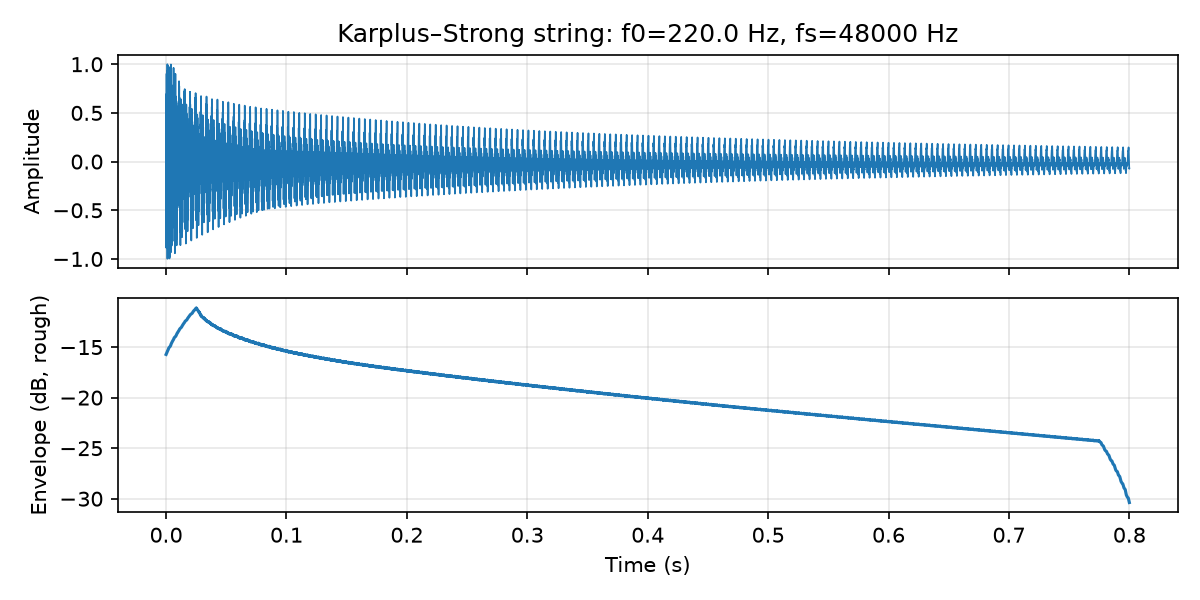
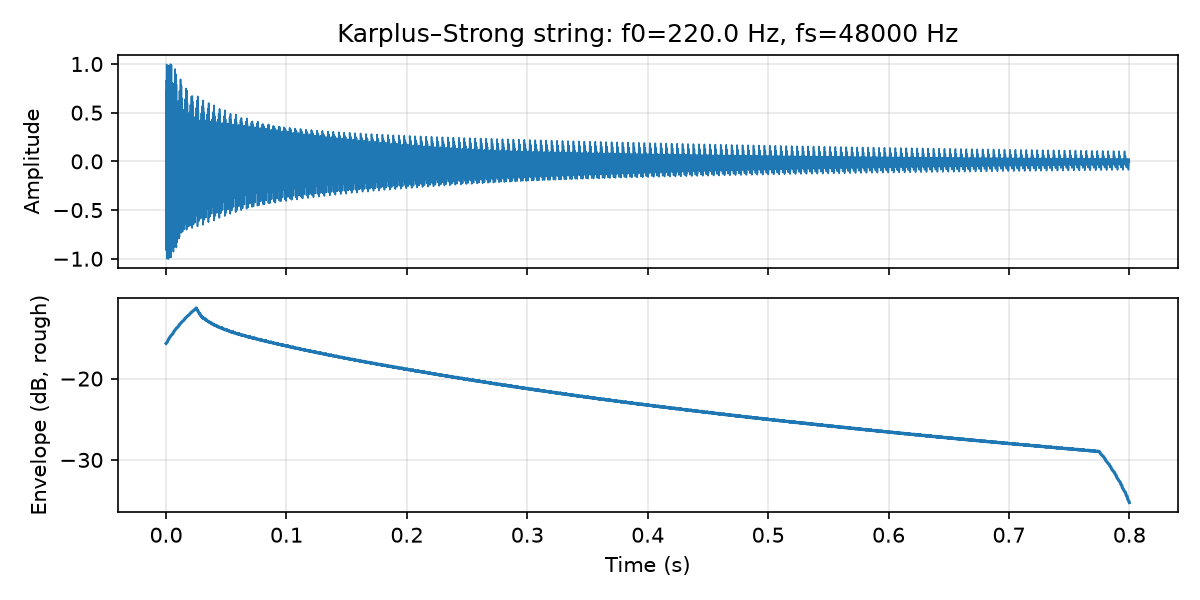
Pass 16: representation lens ch 07-17, solutions ch 07-09
Add representation lens tables to chapters 07-17. Extend appendix and
verified solutions to ch 07-09. Add leakage WAV demo, STFT framing
diagram and figure for ch 08. Update planning docs.

diff --git a/book/examples/stft_framing_diagram.py b/book/examples/stft_framing_diagram.py
@@ -1,0 +1,40 @@
+#!/usr/bin/env python3
+"""STFT framing block diagram (Chapter 08).
+
+Run from book/: python examples/stft_framing_diagram.py
+"""
+
+from pathlib import Path
+
+import matplotlib.pyplot as plt
+from matplotlib.patches import FancyBboxPatch, FancyArrowPatch
+
+FIG = Path(__file__).resolve().parent.parent / "figures"
+FIG.mkdir(parents=True, exist_ok=True)
+
+fig, ax = plt.subplots(figsize=(10, 3))
+ax.set_xlim(0, 10)
+ax.set_ylim(0, 3)
+ax.axis("off")
+
+boxes = [
+    (0.3, 1.2, 1.4, 0.9, "x[n]\ninput"),
+    (2.2, 1.2, 1.6, 0.9, "× w[n]\nwindow"),
+    (4.3, 1.2, 1.6, 0.9, "FFT\nper frame"),
+    (6.4, 1.2, 1.8, 0.9, "X_m[k]\nSTFT"),
+    (8.6, 1.2, 1.2, 0.9, "|X_m[k]|\noptional"),
+]
+for x, y, w, h, label in boxes:
+    ax.add_patch(FancyBboxPatch((x, y), w, h, boxstyle="round,pad=0.05", fc="#e8f0fe", ec="#333"))
+    ax.text(x + w / 2, y + h / 2, label, ha="center", va="center", fontsize=9)
+
+for x0, x1 in [(1.7, 2.2), (3.8, 4.3), (5.9, 6.4), (8.2, 8.6)]:
+    ax.add_patch(FancyArrowPatch((x0, 1.65), (x1, 1.65), arrowstyle="->", mutation_scale=12))
+
+ax.text(5, 0.4, "hop R samples between frames; overlap = (M−R)/M", ha="center", fontsize=9)
+ax.set_title("STFT analysis chain (representation: time → time–frequency)")
+
+out = FIG / "stft_framing.png"
+fig.tight_layout()
+fig.savefig(out, dpi=150)
+print(f"Wrote {out}")

diff --git a/book/solutions/ch09_verify.py b/book/solutions/ch09_verify.py
@@ -1,0 +1,27 @@
+#!/usr/bin/env python3
+"""Verified numeric answers for Chapter 09 exercises."""
+
+from __future__ import annotations
+
+import sys
+from pathlib import Path
+
+import numpy as np
+
+BOOK = Path(__file__).resolve().parent.parent
+sys.path.insert(0, str(BOOK))
+
+
+def main() -> int:
+    x = np.array([1.0, 2.0, 1.0])
+    h = np.array([1.0, 1.0])
+    y = np.convolve(x, h)
+    assert np.allclose(y, [1.0, 3.0, 3.0, 1.0])
+    delta = np.array([1.0])
+    assert np.allclose(np.convolve(delta, h), h)
+    print("Chapter 09 solutions: verified")
+    return 0
+
+
+if __name__ == "__main__":
+    raise SystemExit(main())

diff --git a/book/solutions/ch07_verify.py b/book/solutions/ch07_verify.py
@@ -1,0 +1,26 @@
+#!/usr/bin/env python3
+"""Verified numeric answers for Chapter 07 exercises."""
+
+from __future__ import annotations
+
+import sys
+from pathlib import Path
+
+import numpy as np
+
+BOOK = Path(__file__).resolve().parent.parent
+sys.path.insert(0, str(BOOK))
+
+from audio_toolkit.spectral import coherent_gain  # noqa: E402
+
+
+def main() -> int:
+    n_fft = 1024
+    cg = coherent_gain("hann", n_fft)
+    assert 0.49 < cg < 0.51, cg
+    print("Chapter 07 solutions: verified")
+    return 0
+
+
+if __name__ == "__main__":
+    raise SystemExit(main())

diff --git a/book/solutions/ch08_verify.py b/book/solutions/ch08_verify.py
@@ -1,0 +1,24 @@
+#!/usr/bin/env python3
+"""Verified numeric answers for Chapter 08 exercises."""
+
+from __future__ import annotations
+
+import sys
+from pathlib import Path
+
+BOOK = Path(__file__).resolve().parent.parent
+sys.path.insert(0, str(BOOK))
+
+
+def main() -> int:
+    m, r, fs = 2048, 512, 48_000
+    overlap = (m - r) / m
+    assert abs(overlap - 0.75) < 1e-9
+    frames_per_sec = fs / r
+    assert abs(frames_per_sec - 93.75) < 1e-9
+    print("Chapter 08 solutions: verified")
+    return 0
+
+
+if __name__ == "__main__":
+    raise SystemExit(main())

diff --git a/book/examples/export_audio_demos.py b/book/examples/export_audio_demos.py
@@ -57,6 +57,15 @@ def demo_naive_saw_aliasing() -> None:
     print("saw: naive_saw_2200hz.wav — listen for harsh high-frequency buzz")
 
 
+def demo_leakage_beating() -> None:
+    """Two close tones — hear roughness; spectral analysis shows leakage (Ch 07)."""
+    f1, f2 = 440.0, 444.0
+    n = np.arange(int(FS * DUR))
+    x = 0.4 * (np.sin(2 * np.pi * f1 * n / FS) + np.sin(2 * np.pi * f2 * n / FS))
+    write_wav(OUT / "leakage_two_tone_440_444.wav", x.astype(np.float32), int(FS))
+    print("leakage: leakage_two_tone_440_444.wav — 4 Hz beating; analyze with rect vs Hann window")
+
+
 def demo_comb_filter() -> None:
     """Impulse through feedback comb — metallic resonance."""
     delay_samples = 60
@@ -82,6 +91,7 @@ def main() -> None:
     demo_aliasing()
     demo_phase_click()
     demo_naive_saw_aliasing()
+    demo_leakage_beating()
     demo_comb_filter()
     print(f"All demos written to {OUT}/")
 

diff --git a/book/solutions/run_verifications.py b/book/solutions/run_verifications.py
@@ -5,7 +5,10 @@ import subprocess
 import sys
 from pathlib import Path
 
-SOLUTIONS = ["ch01_verify.py", "ch02_verify.py", "ch03_verify.py", "ch04_verify.py", "ch05_verify.py", "ch06_verify.py"]
+SOLUTIONS = [
+    "ch01_verify.py", "ch02_verify.py", "ch03_verify.py", "ch04_verify.py",
+    "ch05_verify.py", "ch06_verify.py", "ch07_verify.py", "ch08_verify.py", "ch09_verify.py",
+]
 book = Path(__file__).resolve().parent.parent
 failures = []
 for name in SOLUTIONS:

diff --git a/book/tests/run_examples.py b/book/tests/run_examples.py
@@ -21,6 +21,7 @@ EXAMPLES = [
     "wavetable_demo.py",
     "export_audio_demos.py",
     "spectrogram_frontend_demo.py",
+    "stft_framing_diagram.py",
 ]
 
 failures = []

diff --git a/book/chapters/23-appendix-exercise-solutions.md b/book/chapters/23-appendix-exercise-solutions.md
@@ -1,6 +1,6 @@
 # Appendix: Selected Exercise Solutions {#ch-23-exercise-solutions}
 
-This appendix provides worked solutions for exercises in chapters **01–06**. Try each exercise yourself first; use these solutions to check arithmetic, conventions, and reasoning.
+This appendix provides worked solutions for exercises in chapters **01–09**. Try each exercise yourself first; use these solutions to check arithmetic, conventions, and reasoning.
 
 ---
 
@@ -251,4 +251,66 @@ Manual bin $k$: $X[k]=\sum_n x[n] e^{-j2\pi kn/N}$ should match `np.fft.fft(x)[k
 
 ---
 
-*Numeric answers for ch 01–06 verified by `solutions/ch01_verify.py` … `ch06_verify.py` (`python solutions/run_verifications.py`).*
+---
+
+## [Chapter 7](#ch-07-windowing) — Windowing, Leakage, and Resolution
+
+### Exercise 7.1
+
+Hann coherent gain ≈ mean of window = **0.5** for length 1024 (`np.mean(np.hanning(1024))`).
+
+### Exercise 7.2
+
+Using $N-1$ in the cosine denominator keeps the window **symmetric** about its center for finite $N$.
+
+### Exercise 7.3
+
+Blackman main lobe wider than Hann; rectangular narrowest main lobe but highest sidelobes — measure −3 dB width in your plot.
+
+### Exercise 7.4
+
+Drum transients are **short**; long $N$ smears attack time in time–frequency view even if $\Delta f$ is finer.
+
+---
+
+## [Chapter 8](#ch-08-stft) — STFT, Spectrograms, and Time–Frequency Analysis
+
+### Exercise 8.1
+
+$M=2048$, $R=512$ at 48 kHz: overlap $= (M-R)/M = \mathbf{75\%}$. Frames per second $= f_s/R = 48000/512 = \mathbf{93.75}$.
+
+### Exercise 8.2
+
+Two tones at different onsets appear as **separate ridges** in time on a spectrogram; overlap in frequency if both sound together.
+
+### Exercise 8.3
+
+$M=256$: better time resolution, worse frequency resolution; $M=4096$: opposite — classic time–frequency tradeoff.
+
+### Exercise 8.4
+
+Formants need **moderate** bandwidth — not as wide as a drum window, not as narrow as a multi-second pitch analysis window.
+
+---
+
+## [Chapter 9](#ch-09-convolution) — Convolution and Impulse Responses
+
+### Exercise 9.1
+
+$[1,2,1]*[1,1] = [1, 3, 3, 1]$.
+
+### Exercise 9.2
+
+$\delta[n]*h[n]=h[n]$ because only $n=0$ picks $h[n]$.
+
+### Exercise 9.3
+
+1 s IR at 48 kHz has length 48000; block FFT size 512 ⇒ about $48000/512 \approx 94$ blocks per second of processing in a block scheme — each block needs $O(L\log L)$ FFT work.
+
+### Exercise 9.4
+
+**Overlap-add** lets infinite streams be processed in fixed blocks while matching linear convolution within overlap regions.
+
+---
+
+*Numeric answers for ch 01–09 verified by `solutions/ch01_verify.py` … `ch09_verify.py` (`python solutions/run_verifications.py`).*

diff --git a/book/REVIEW_NOTES.md b/book/REVIEW_NOTES.md
@@ -2,6 +2,31 @@
 
 Open issues, review findings, and planned improvements.
 
+## Pass 16 — Representation Lens ch 07–17, Solutions 07–09 (2026-07-03)
+
+### Completed
+
+- **Representation lens** tables added to chapters **07–17** (11 chapters)
+- **Exercise solutions** — appendix + verify scripts for ch 07–09
+- **WAV demo** — `leakage_two_tone_440_444.wav` in `export_audio_demos.py`
+- **Block diagram** — `stft_framing.png` via `stft_framing_diagram.py`; referenced in ch 08
+
+### Remaining gaps
+
+- [ ] Exercise solutions ch 10+
+- [ ] More block diagrams (ADC/DAC, FIR/IIR)
+- [ ] PDF CI (LaTeX)
+- [ ] External / second-model review per chapter
+
+### Chapter status summary
+
+| Status | Chapters |
+|--------|----------|
+| pedagogically reviewed | 01–06 |
+| technically reviewed | 00, 07–22, appendix A |
+
+---
+
 ## Pass 15 — ch 18/20 Depth, WAV Demos, Solutions 04–06 (2026-07-03)
 
 ### Completed

diff --git a/book/chapters/08-stft-spectrograms-and-time-frequency-analysis.md b/book/chapters/08-stft-spectrograms-and-time-frequency-analysis.md
@@ -4,6 +4,17 @@
 
 A single DFT ([DFT, FFT, and Spectral Analysis](#ch-06-dft-fft)) describes **one** time segment. Audio evolves: notes start, formants shift, consonants burst. The **short-time Fourier transform (STFT)** applies windowed DFTs ([Windowing, Leakage, and Resolution](#ch-07-windowing)) to overlapping frames, producing a **time–frequency matrix**— the basis of spectrograms, many audio features, and perceptual front-ends.
 
+## Representation lens
+
+| Question | STFT answer |
+|----------|-------------|
+| **What is the representation?** | Matrix of short-time spectra $X_m[k]$ over frames $m$ |
+| **What does it preserve?** | How frequency content evolves over time (when hop/window chosen well) |
+| **What does it discard?** | Phase (often); detail below window bandwidth; between-frame gaps if hop large |
+| **Maps in/out via** | Windowed DFT per frame; overlap-add for ISTFT reconstruction |
+| **Numerical mistakes** | COLA violation on synthesis; inconsistent padding; wrong hop units |
+| **Audible artifacts** | Phasiness, transient smear, echoey resynthesis |
+
 ## Learning Objectives
 
 By the end of this chapter, the reader should be able to:
@@ -80,6 +91,8 @@ $$
 
 ## Implementation Notes
 
+![STFT analysis framing](../figures/stft_framing.png)
+
 ```python
 import numpy as np
 M, R = 1024, 256
@@ -115,6 +128,8 @@ Run `python examples/stft_spectrogram_demo.py`.
 2. Generate a two-tone signal turning on at different times; sketch expected spectrogram.
 3. Compare same signal with $M=256$ vs $M=4096$; describe tradeoff you hear/see.
 4. Why does vocal formant tracking prefer moderate $M$?
+
+*Selected solutions: [Appendix — Exercise Solutions](#ch-23-exercise-solutions).*
 
 ## Further Reading
 

diff --git a/book/chapters/07-windowing-leakage-and-resolution.md b/book/chapters/07-windowing-leakage-and-resolution.md
@@ -4,6 +4,17 @@
 
 Chapter 6 ([DFT, FFT, and Spectral Analysis](#ch-06-dft-fft)) showed that a finite DFT segment behaves as if the signal repeats every $N$ samples and that off-bin tones spread energy across bins. **Windowing** tapers the segment edges to reduce the artificial discontinuity at the wrap point and to control **spectral leakage**. This chapter explains window tradeoffs: main-lobe width (frequency resolution) versus sidelobe level (leakage suppression)— the core time–frequency uncertainty behind spectral analysis.
 
+## Representation lens
+
+| Question | Windowing answer |
+|----------|------------------|
+| **What is the representation?** | Windowed finite segment $x[n]w[n]$ before spectral analysis |
+| **What does it preserve?** | Local spectral content near the window center; tapered edges |
+| **What does it discard?** | Full energy at abrupt truncation boundaries; wideband leakage energy |
+| **Maps in/out via** | Multiply by $w[n]$ → DFT/STFT; inverse needs synthesis window for resynthesis |
+| **Numerical mistakes** | Zero-padding mistaken for resolution; ignoring coherent gain |
+| **Audible artifacts** | Spectral smear; underestimated peak levels; blurred adjacent bins |
+
 ## Learning Objectives
 
 By the end of this chapter, the reader should be able to:
@@ -113,6 +124,8 @@ SciPy: `scipy.signal.get_window('hann', N)`.
 2. Why does symmetric Hann use $N-1$ in the cosine denominator?
 3. Plot spectra of a 1000 Hz tone with rectangular and Blackman windows; measure main-lobe width at −3 dB.
 4. When analyzing drum transients, argue for shorter $N$ even if $\Delta f$ worsens.
+
+*Selected solutions: [Appendix — Exercise Solutions](#ch-23-exercise-solutions).*
 
 ## Further Reading
 

diff --git a/book/chapters/09-convolution-and-impulse-responses.md b/book/chapters/09-convolution-and-impulse-responses.md
@@ -4,6 +4,17 @@
 
 Filtering, reverberation, and equalization are often implemented as **convolution** of an input signal with an **impulse response (IR)**. This chapter defines discrete convolution, connects it to LTI systems, and explains why IRs are a central audio representation— from cabinet modeling to algorithmic reverb.
 
+## Representation lens
+
+| Question | Impulse-response answer |
+|----------|-------------------------|
+| **What is the representation?** | Discrete impulse response $h[n]$ of an LTI system |
+| **What does it preserve?** | Complete LTI behavior: every input mapped by same $h[n]$ |
+| **What does it discard?** | Non-LTI effects (compression, saturation); time-varying systems |
+| **Maps in/out via** | Convolution $y=x*h$; frequency domain $Y=HX$ |
+| **Numerical mistakes** | Circular vs linear convolution; wrong `mode` at edges |
+| **Audible artifacts** | Wraparound echoes; pre-ringing from linear-phase IRs |
+
 ## Learning Objectives
 
 By the end of this chapter, the reader should be able to:
@@ -88,6 +99,8 @@ For long IRs: uniform partitioned convolution (UPC) splits IR into blocks— sta
 2. Show $\delta[n]*h[n]=h[n]$.
 3. Estimate FFT cost for 1 s IR at 48 kHz with 512-sample blocks.
 4. Why does reverb on infinite input use overlap-add?
+
+*Selected solutions: [Appendix — Exercise Solutions](#ch-23-exercise-solutions).*
 
 ## Further Reading
 